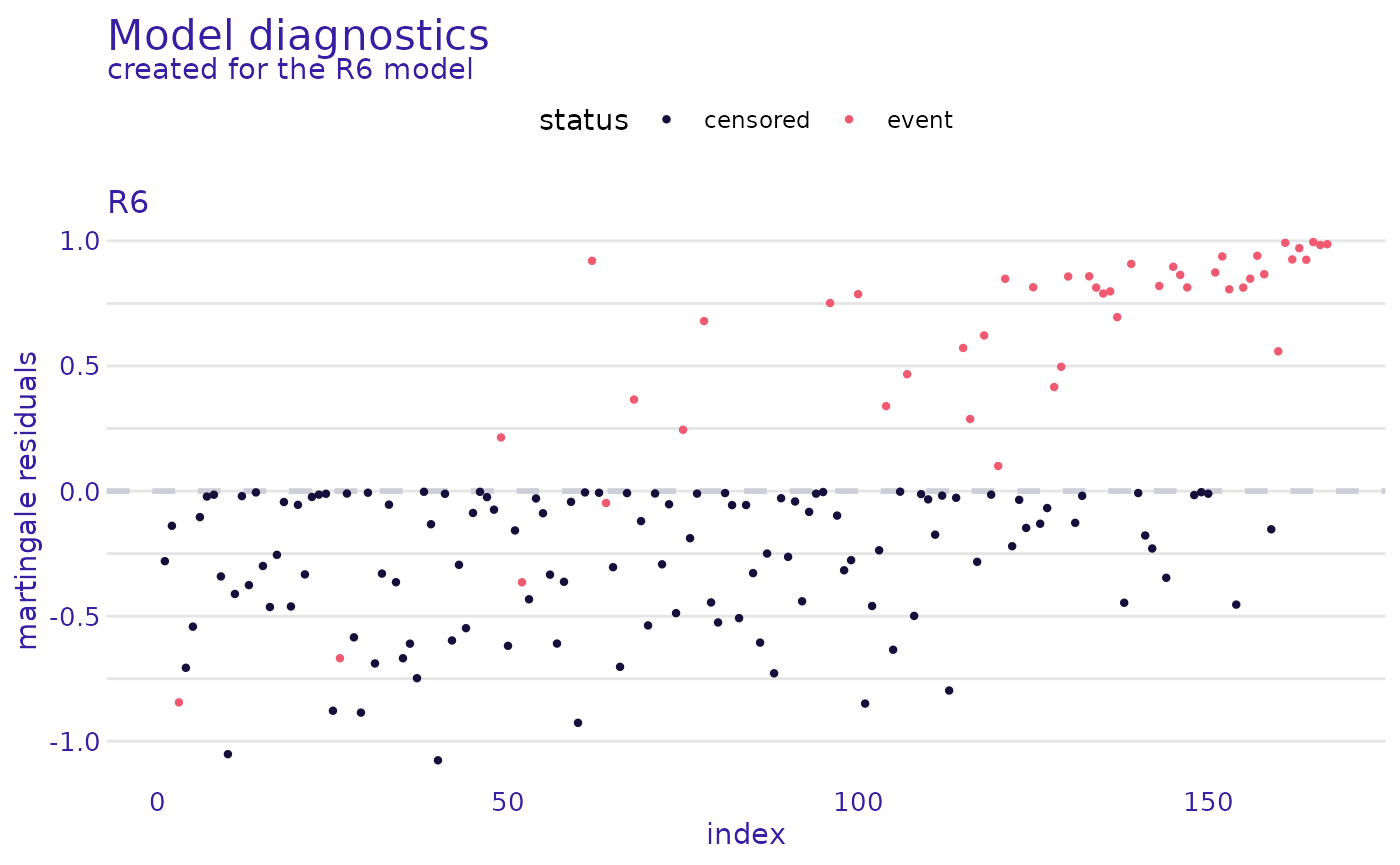
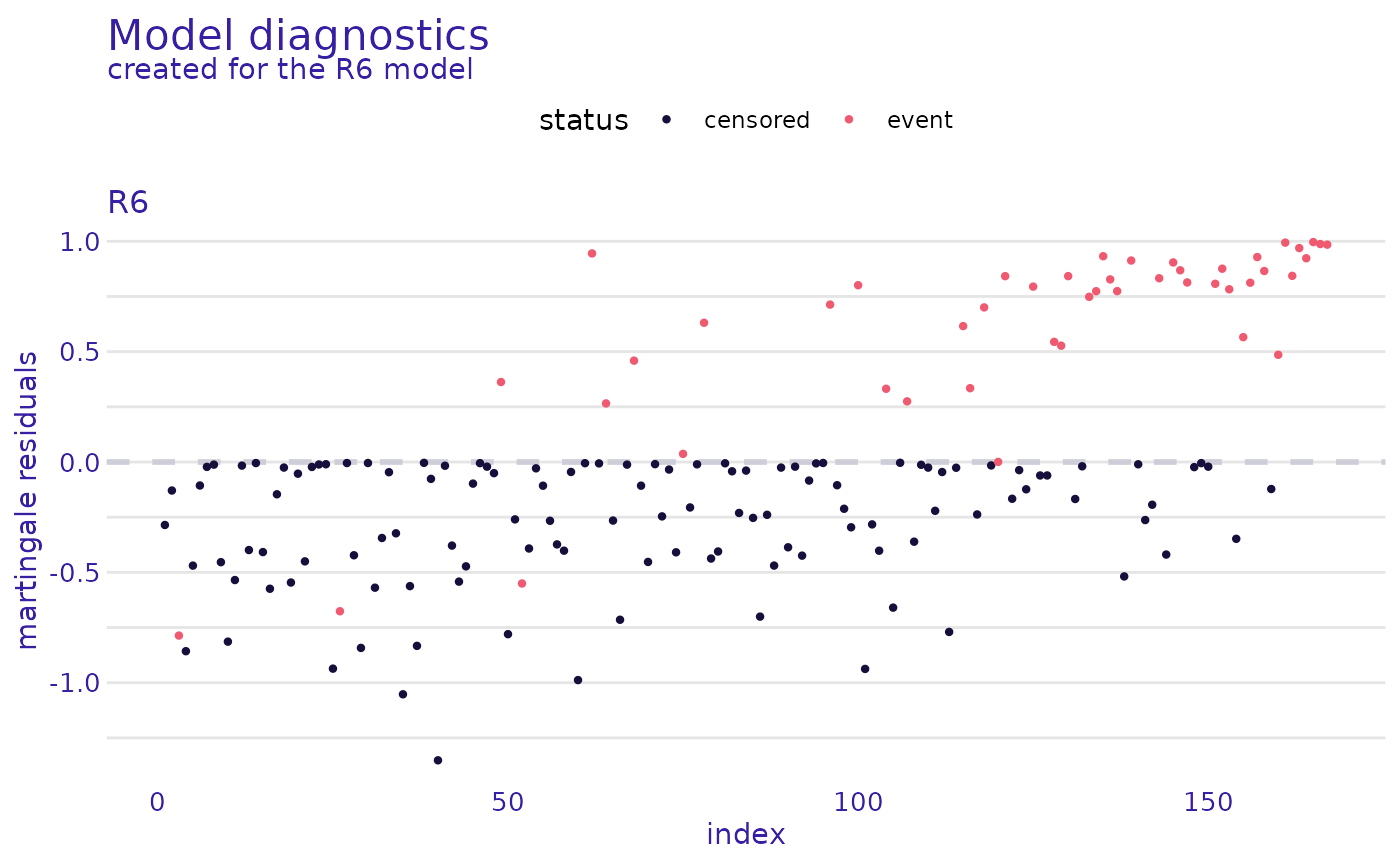
Deploying to gh-pages from @ orspanish/DeepSuRv@47059b8944ae87f2fd469f3769ce473f8e5a87ca 🚀

diff --git a/articles/DeepSuRv_tutorial.html b/articles/DeepSuRv_tutorial.html
@@ -153,11 +153,11 @@ desired.</p>
 <div class="sourceCode" id="cb4"><pre class="downlit sourceCode r">
 <code class="sourceCode R"><span><span class="va">model_whas</span><span class="op">$</span><span class="fu">set_standardization</span><span class="op">(</span><span class="va">x_train</span><span class="op">)</span></span>
 <span><span class="va">model_whas</span><span class="op">$</span><span class="fu">train</span><span class="op">(</span><span class="va">x_train</span>, <span class="va">t_train</span>, <span class="va">e_train</span><span class="op">)</span></span>
-<span><span class="co">#&gt; Epoch: 10 Loss: 3345.604 </span></span>
-<span><span class="co">#&gt; Epoch: 20 Loss: 3342.146 </span></span>
-<span><span class="co">#&gt; Epoch: 30 Loss: 3321.036 </span></span>
-<span><span class="co">#&gt; Epoch: 40 Loss: 3306.22 </span></span>
-<span><span class="co">#&gt; Epoch: 50 Loss: 3308.43</span></span></code></pre></div>
+<span><span class="co">#&gt; Epoch: 10 Loss: 3352.889 </span></span>
+<span><span class="co">#&gt; Epoch: 20 Loss: 3331.616 </span></span>
+<span><span class="co">#&gt; Epoch: 30 Loss: 3315.669 </span></span>
+<span><span class="co">#&gt; Epoch: 40 Loss: 3305.005 </span></span>
+<span><span class="co">#&gt; Epoch: 50 Loss: 3300.91</span></span></code></pre></div>
 <p>During training, the network iteratively updates its weights to
 minimize the Cox loss. Each epoch processes all training samples once,
 and the optimizer adjusts the weights based on the gradient of the
@@ -174,7 +174,7 @@ set.</p>
 <div class="sourceCode" id="cb5"><pre class="downlit sourceCode r">
 <code class="sourceCode R"><span><span class="va">scores</span> <span class="op">&lt;-</span> <span class="va">model_whas</span><span class="op">$</span><span class="fu">predict_risk</span><span class="op">(</span><span class="va">x_test</span><span class="op">)</span></span>
 <span><span class="fu"><a href="https://rdrr.io/r/utils/head.html" class="external-link">head</a></span><span class="op">(</span><span class="va">scores</span><span class="op">)</span></span>
-<span><span class="co">#&gt; [1] 2.940258 3.224050 2.915402 3.274704 2.960247 4.239460</span></span></code></pre></div>
+<span><span class="co">#&gt; [1] 2.493967 3.089078 2.406424 2.866301 2.777485 3.944201</span></span></code></pre></div>
 </div>
 <div class="section level2">
 <h2 id="evaluation-the-model-performance">Evaluation the Model Performance<a class="anchor" aria-label="anchor" href="#evaluation-the-model-performance"></a>
@@ -199,15 +199,15 @@ order.</p>
 <code class="sourceCode R"><span><span class="va">whas_res</span> <span class="op">&lt;-</span> <span class="va">model_whas</span><span class="op">$</span><span class="fu">bootstrap_cindex</span><span class="op">(</span><span class="va">x_test</span>, <span class="va">t_test</span>, <span class="va">e_test</span><span class="op">)</span></span>
 <span><span class="va">whas_res</span></span>
 <span><span class="co">#&gt; $cindex</span></span>
-<span><span class="co">#&gt; [1] 0.1988945</span></span>
+<span><span class="co">#&gt; [1] 0.19094</span></span>
 <span><span class="co">#&gt; </span></span>
 <span><span class="co">#&gt; $lower</span></span>
 <span><span class="co">#&gt;      2.5% </span></span>
-<span><span class="co">#&gt; 0.1625551 </span></span>
+<span><span class="co">#&gt; 0.1560883 </span></span>
 <span><span class="co">#&gt; </span></span>
 <span><span class="co">#&gt; $upper</span></span>
-<span><span class="co">#&gt;    97.5% </span></span>
-<span><span class="co">#&gt; 0.237385</span></span></code></pre></div>
+<span><span class="co">#&gt;     97.5% </span></span>
+<span><span class="co">#&gt; 0.2293616</span></span></code></pre></div>
 </div>
   </main><aside class="col-md-3"><nav id="toc" aria-label="Table of contents"><h2>On this page</h2>
     </nav></aside>

diff --git a/articles/deepsurv_survex.html b/articles/deepsurv_survex.html
@@ -160,11 +160,11 @@ DEEPSURV CLASS TUTORIAL ARTICLE</strong>.</p>
 <span>  t_train <span class="op">=</span> <span class="va">train_data</span><span class="op">$</span><span class="va">time</span>,</span>
 <span>  e_train <span class="op">=</span> <span class="va">train_data</span><span class="op">$</span><span class="va">event</span></span>
 <span><span class="op">)</span></span>
-<span><span class="co">#&gt; Epoch: 10 Loss: 191.5768 </span></span>
-<span><span class="co">#&gt; Epoch: 20 Loss: 189.1971 </span></span>
-<span><span class="co">#&gt; Epoch: 30 Loss: 186.8946 </span></span>
-<span><span class="co">#&gt; Epoch: 40 Loss: 184.3454 </span></span>
-<span><span class="co">#&gt; Epoch: 50 Loss: 181.5054</span></span></code></pre></div>
+<span><span class="co">#&gt; Epoch: 10 Loss: 191.9033 </span></span>
+<span><span class="co">#&gt; Epoch: 20 Loss: 188.818 </span></span>
+<span><span class="co">#&gt; Epoch: 30 Loss: 185.9341 </span></span>
+<span><span class="co">#&gt; Epoch: 40 Loss: 183.497 </span></span>
+<span><span class="co">#&gt; Epoch: 50 Loss: 181.3073</span></span></code></pre></div>
 </div>
 <div class="section level3">
 <h3 id="make-predictions">Make Predictions<a class="anchor" aria-label="anchor" href="#make-predictions"></a>
@@ -176,7 +176,7 @@ sooner.</p>
 <div class="sourceCode" id="cb5"><pre class="downlit sourceCode r">
 <code class="sourceCode R"><span><span class="va">risk_scores</span> <span class="op">&lt;-</span> <span class="va">model</span><span class="op">$</span><span class="fu">predict_risk</span><span class="op">(</span><span class="va">X</span><span class="op">)</span></span>
 <span><span class="fu"><a href="https://rdrr.io/r/utils/head.html" class="external-link">head</a></span><span class="op">(</span><span class="va">risk_scores</span><span class="op">)</span></span>
-<span><span class="co">#&gt; [1] -0.9070435  0.3295634 -2.2499833  0.4999236  0.1406885 -0.0506255</span></span></code></pre></div>
+<span><span class="co">#&gt; [1] -0.3494549  0.8338006 -1.8548696  1.2236645  0.5271077  0.5462369</span></span></code></pre></div>
 </div>
 </div>
 <div class="section level2">

diff --git a/articles/DeepSuRv_tutorial.md b/articles/DeepSuRv_tutorial.md
@@ -92,11 +92,11 @@ argument, `verbose`, which prints the training loss values if desired.
 ``` r
 model_whas$set_standardization(x_train)
 model_whas$train(x_train, t_train, e_train)
-#> Epoch: 10 Loss: 3345.604 
-#> Epoch: 20 Loss: 3342.146 
-#> Epoch: 30 Loss: 3321.036 
-#> Epoch: 40 Loss: 3306.22 
-#> Epoch: 50 Loss: 3308.43
+#> Epoch: 10 Loss: 3352.889 
+#> Epoch: 20 Loss: 3331.616 
+#> Epoch: 30 Loss: 3315.669 
+#> Epoch: 40 Loss: 3305.005 
+#> Epoch: 50 Loss: 3300.91
 ```
 
 During training, the network iteratively updates its weights to minimize
@@ -113,7 +113,7 @@ using the mean and standard deviation computed from the training set.
 ``` r
 scores <- model_whas$predict_risk(x_test)
 head(scores)
-#> [1] 2.940258 3.224050 2.915402 3.274704 2.960247 4.239460
+#> [1] 2.493967 3.089078 2.406424 2.866301 2.777485 3.944201
 ```
 
 ## Evaluation the Model Performance
@@ -138,13 +138,13 @@ correctly ordered in comparison to the observations true order.
 whas_res <- model_whas$bootstrap_cindex(x_test, t_test, e_test)
 whas_res
 #> $cindex
-#> [1] 0.1988945
+#> [1] 0.19094
 #> 
 #> $lower
 #>      2.5% 
-#> 0.1625551 
+#> 0.1560883 
 #> 
 #> $upper
-#>    97.5% 
-#> 0.237385
+#>     97.5% 
+#> 0.2293616
 ```

diff --git a/articles/deepsurv_survex.md b/articles/deepsurv_survex.md
@@ -90,11 +90,11 @@ model$train(
   t_train = train_data$time,
   e_train = train_data$event
 )
-#> Epoch: 10 Loss: 191.5768 
-#> Epoch: 20 Loss: 189.1971 
-#> Epoch: 30 Loss: 186.8946 
-#> Epoch: 40 Loss: 184.3454 
-#> Epoch: 50 Loss: 181.5054
+#> Epoch: 10 Loss: 191.9033 
+#> Epoch: 20 Loss: 188.818 
+#> Epoch: 30 Loss: 185.9341 
+#> Epoch: 40 Loss: 183.497 
+#> Epoch: 50 Loss: 181.3073
 ```
 
 ### Make Predictions
@@ -106,7 +106,7 @@ a higher risk of the event of interest occurring sooner.
 ``` r
 risk_scores <- model$predict_risk(X)
 head(risk_scores)
-#> [1] -0.9070435  0.3295634 -2.2499833  0.4999236  0.1406885 -0.0506255
+#> [1] -0.3494549  0.8338006 -1.8548696  1.2236645  0.5271077  0.5462369
 ```
 
 ## Creating an Explainer
